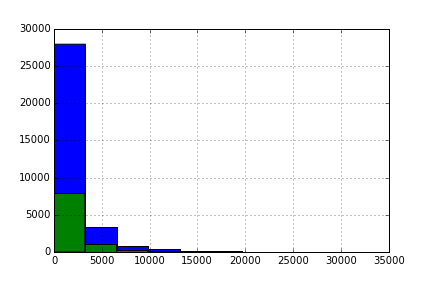
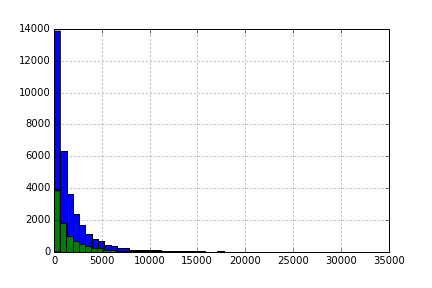
Finished project answers.

Changed region(s): [[0.0301, 0.0625, 0.4213, 0.875]]

diff --git a/nyc-subway-answers.md b/nyc-subway-answers.md
@@ -48,29 +48,36 @@ Given that information, I would say that my model is appropriate for this datase
 
 # Section 3. Visualization  
   
-3.1 One visualization should contain two histograms: one of  ENTRIESn_hourly for rainy days and one of ENTRIESn_hourly for non-rainy days.
-You can combine the two histograms in a single plot or you can use two separate plots.
-If you decide to use to two separate plots for the two histograms, please ensure that the x-axis limits for both of the plots are identical. It is much easier to compare the two in that case.
-For the histograms, you should have intervals representing the volume of ridership (value of ENTRIESn_hourly) on the x-axis and the frequency of occurrence on the y-axis. For example, each interval (along the x-axis), the height of the bar for this interval will represent the number of records (rows in our data) that have ENTRIESn_hourly that falls in this interval.
-Remember to increase the number of bins in the histogram (by having larger number of bars). The default bin width is not sufficient to capture the variability in the two samples.  
-![histograms](histograms.png)
+### 3.1 One visualization should contain two histograms: one of  ENTRIESn_hourly for rainy days and one of ENTRIESn_hourly for non-rainy days.
+  
+![histograms](histograms.png)  
+Blue is non-rain and green is rain
 
-3.2 One visualization can be more freeform. You should feel free to implement something that we discussed in class (e.g., scatter plots, line plots) or attempt to implement something more advanced if you'd like. Some suggestions are:
-Ridership by time-of-day
-Ridership by day-of-week
+### 3.2 One visualization can be more freeform.
+![day_week](day_week.png)
 
 # Section 4. Conclusion
 
 Please address the following questions in detail. Your answers should be 1-2 paragraphs long.  
-4.1 From your analysis and interpretation of the data, do more people ride
-the NYC subway when it is raining or when it is not raining?    
-4.2 What analyses lead you to this conclusion? You should use results from both your statistical
-tests and your linear regression to support your analysis.
+### 4.1 From your analysis and interpretation of the data, do more people ride the NYC subway when it is raining or when it is not raining?    
+More people ride the subway when it is raining.  
+I feel confident saying this because of the results of the statistical tests performed (see below). Subways are an easy way to get around when it is raining, and it makes sense that most people don't want to get wet.
+When I was in Manhattan, things seemed fairly close, so the distance didn't bother me, but not having to walk in the rain (even for a short distance) can be worth the subway ticket for many people. There was also evidence from the linear
+model to suggest that temperature and wind speed had something to do with it to. Bad weather means good public transit sales.
+
+### 4.2 What analyses lead you to this conclusion? You should use results from both your statistical tests and your linear regression to support your analysis.
+As discussed in Section 1, the Mann-Whitney test showed statistical significance at .05 that rainy/non-rainy days are different. This means that we
+can be 95% sure that they aren't different by chance &mdash; there must be a reason for the difference. Looking at the differences in means for rainy/non-rainy days
+leads us to conclude that not only is the average for rainy days higher, but rainy days on average will be higher in the long run.  
+The inputs chosen for the linear model also helped show that other weather factors had an effect. I don't have the normalized coefficients, but a quick glance at the non-normalized ones
+suggest that the wind speed and temperature were just as big of a part of the model as the precipitation.
 
 # Section 5. Reflection
 
 Please address the following questions in detail. Your answers should be 1-2 paragraphs long.  
-5.1 Please discuss potential shortcomings of the methods of your analysis, including:
-Dataset,
-Analysis, such as the linear regression model or statistical test.  
-5.2 (Optional) Do you have any other insight about the dataset that you would like to share with us?
+### 5.1 Please discuss potential shortcomings of the methods of your analysis, including: Dataset, Analysis, such as the linear regression model or statistical test.  
+One of the biggest shortcomings with the linear regression is that I don't know for sure if I reached a global optimum. Using gradient descent, I was able to get a quicker answer for more parameters. Looking back, choosing a limited set of parameters
+and using an ordinary least squares approach would have given me a better model.  
+The Mann-Whitney U-test is a robust test that does very well with data that isn't normally-distributed. After some research, I couldn't find any real shortcomings of the test overall. However, the fact that I just picked
+.05 as the alpha for my test can come under some scrutiny. More practice and familiarity in the area would help me decide if that was a good
+significance value or not.
